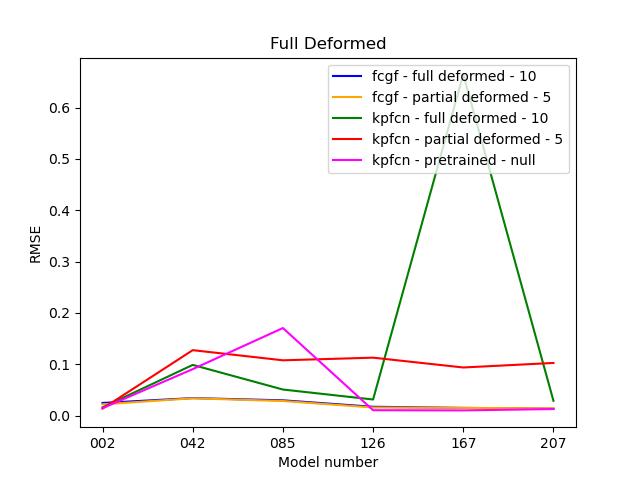
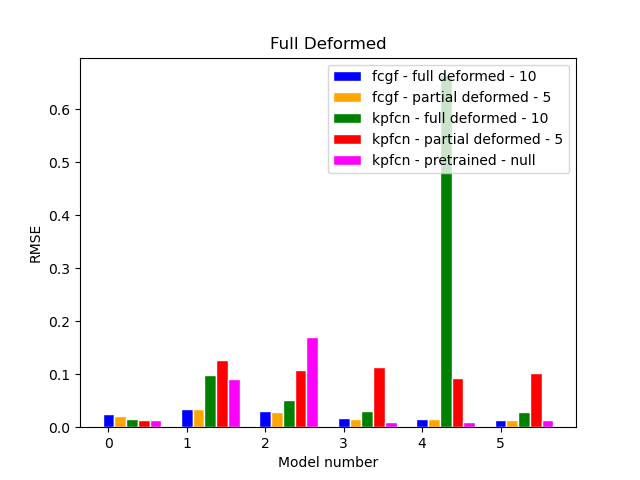
decreasing the confidence threshold

diff --git a/Testing/all/aggregate_data_all_weights_per_datatype.py b/Testing/all/aggregate_data_all_weights_per_datatype.py
@@ -2,26 +2,51 @@
 import re
 import matplotlib.pyplot as plt
 from os import path
+import numpy as np
+import copy
 
 data_types = ['full_deformed', 'partial_deformed', 'full_non_deformed', 'partial_non_deformed']
+model_numbers = ['002', '042', '085', '126', '167', '207']
+
+barWidth = 0.15
+barWidthPlot = 0.15
+br1 = np.array([0, 1, 2, 3, 4, 5])
+br2 = np.array([x + barWidth for x in br1])
+br3 = np.array([x + barWidth for x in br2])
+br4 = np.array([x + barWidth for x in br3])
+br5 = np.array([x + barWidth for x in br4])
 
 weights = {
     'fcgf' : {
-        'full_deformed' : 10, 
-        'partial_deformed' : 5
+        'full_deformed' : {
+            'epoch' : 10,
+            'bar' :  br1
+        },
+        'partial_deformed' : {
+            'epoch' : 5, 
+            'bar' : br2
+        }
     }, 
     'kpfcn' : {
-        'full_deformed' : 10, 
-        'partial_deformed' : 5,
-        'pretrained' : 'null'
+        'full_deformed' : {
+            'epoch' : 10,
+            'bar' : br3
+        }, 
+        'partial_deformed' : {
+            'epoch' : 5,
+            'bar' : br4
+        },
+        'pretrained' : {
+            'epoch' : 'null',
+            'bar' : br5
+        }
     }
 }
 
-# knn_matching = 'False'
-knn_matching = 'True'
+knn_matching = 'False'
+# knn_matching = 'True'
 
 number = 0
-model_numbers = ['002', '042', '085', '126', '167', '207']
 adm = 2.0
 with_custom = False
 # with_custom = True
@@ -39,13 +64,14 @@ def get_data(data_type, feature_extractor, training_data_type, custom = False):
     else:
         deformed = False
 
-    epoch = str(weights[feature_extractor][training_data_type])
+    epoch = str(weights[feature_extractor][training_data_type]['epoch'])
     if custom is False:
         file_path = 'Testing/all/test_astrivis_' + data_type + '_pre_' + preprocessing_normal + '_' + feature_extractor + '_td_' + training_data_type + '_e_' + epoch + '_knn_' + knn_matching + '.txt'
     else:
         file_path = 'Testing/all/test_astrivis_' + data_type + '_pre_' + preprocessing_custom + '_' + feature_extractor + '_td_' + training_data_type + '_e_' + epoch + '_custom_adm_' + str(adm) + '_knn_' + knn_matching + '.txt'
 
     if not path.exists(file_path):
+        print('Does not exist, file_path : ', file_path)
         return 'Does not exist'
     
     file = open(file_path, 'r')
@@ -90,18 +116,26 @@ for data_type in data_types:
     number += 1
     plt.clf()
     f = plt.figure(number)
+    # fig, ax = plt.subplots()
+
     legend = []
 
+    print('\n')
+    print('data_type : ', data_type)
     if with_custom is False:
         color_idx = 0
         for feature_extractor in weights:
             for training_data_type in weights[feature_extractor]:
 
-                epoch = str(weights[feature_extractor][training_data_type])
+                epoch = str(weights[feature_extractor][training_data_type]['epoch'])
+                bar = weights[feature_extractor][training_data_type]['bar']
                 training_data_type_mod = training_data_type.replace('_', ' ')
                 weights_legend = feature_extractor + ' - ' + training_data_type_mod + ' - ' + epoch 
                 legend.append(weights_legend)
                 data = get_data(data_type, feature_extractor, training_data_type)
+
+                print('feature_extractor : ', feature_extractor)
+                print('training_data_type : ', training_data_type)
 
                 if data == 'Does not exist':
                     break
@@ -110,7 +144,8 @@ for data_type in data_types:
                 for model_number in data:
                     rmse.append(float(data[model_number]['RMSE']))
                 
-                plt.plot(model_numbers, rmse, color = colors[color_idx], label=weights_legend)
+                rmse = np.array(rmse)
+                plt.bar(bar, rmse, color = colors[color_idx], width = barWidthPlot, edgecolor='white', label = weights_legend)              
                 color_idx += 1
     else:
         color_idx = 0
@@ -143,7 +178,8 @@ for data_type in data_types:
 
     plt.xlabel("Model number")
     plt.ylabel("RMSE")
-    plt.legend(loc='upper right') # legend
+    plt.xticks([r + barWidth for r in range(len(model_numbers))], model_numbers)
+    plt.legend(loc='upper right')
     title = data_type.replace('_', ' ')
     title = title.title()
     plt.title(title, wrap=True)

diff --git a/Testing/current_deformation/aggregate_data_all_weights_per_datatype.py b/Testing/current_deformation/aggregate_data_all_weights_per_datatype.py
@@ -9,6 +9,14 @@ knn_matching = 'True'
 
 data_types = ['full_deformed', 'partial_deformed', 'full_non_deformed', 'partial_non_deformed']
 
+barWidth = 0.15
+barWidthPlot = 0.15
+br1 = np.array([0, 1, 2, 3, 4, 5])
+br2 = np.array([x + barWidth for x in br1])
+br3 = np.array([x + barWidth for x in br2])
+br4 = np.array([x + barWidth for x in br3])
+br5 = np.array([x + barWidth for x in br4])
+
 if knn_matching == 'False':
     confidence_thresholds = {
         'full_deformed' : {
@@ -77,13 +85,28 @@ else:
 
 weights = {
     'fcgf' : {
-        'full_deformed' : 10, 
-        'partial_deformed' : 5
+        'full_deformed' : {
+            'epoch' : 10,
+            'bar' :  br1
+        },
+        'partial_deformed' : {
+            'epoch' : 5, 
+            'bar' : br2
+        }
     }, 
     'kpfcn' : {
-        'full_deformed' : 10, 
-        'partial_deformed' : 5,
-        'pretrained' : 'null'
+        'full_deformed' : {
+            'epoch' : 10,
+            'bar' : br3
+        }, 
+        'partial_deformed' : {
+            'epoch' : 5,
+            'bar' : br4
+        },
+        'pretrained' : {
+            'epoch' : 'null',
+            'bar' : br5
+        }
     }
 }
 
@@ -115,13 +138,14 @@ def get_data(data_type, feature_extractor, training_data_type, custom = False):
     else:
         conf_text = ''
 
-    epoch = str(weights[feature_extractor][training_data_type])
+    epoch = str(weights[feature_extractor][training_data_type]['epoch'])
     if custom is False:
         file_path = "Testing/current_deformation/test_astrivis_" + data_type + "_current_deformation_pre_" + preprocessing_normal + "_" + feature_extractor + "_td_" + training_data_type + "_e_" + epoch + "_knn_" + knn_matching + conf_text + ".txt"
     else:
         file_path = "Testing/current_deformation/test_astrivis_" + data_type + "_current_deformation_pre_" + preprocessing_normal + "_" + feature_extractor + "_td_" + training_data_type + "_e_" + epoch + "_custom_adm_" + str(adm) + "_knn_" + knn_matching + conf_text + ".txt"
     
     if not path.exists(file_path):
+        print('Does not exist, file_path : ', file_path)
         return 'Does not exist'
     
     file = open(file_path, 'r')
@@ -175,7 +199,9 @@ for data_type in data_types:
         for feature_extractor in weights:
             for training_data_type in weights[feature_extractor]:
                 
-                epoch = str(weights[feature_extractor][training_data_type])
+                epoch = str(weights[feature_extractor][training_data_type]['epoch'])
+                bar = weights[feature_extractor][training_data_type]['bar']
+
                 training_data_type_mod = training_data_type.replace('_', ' ')
                 weights_legend = feature_extractor + ' - ' + training_data_type_mod + ' - ' + epoch 
                 legend.append(weights_legend)
@@ -193,9 +219,12 @@ for data_type in data_types:
 
                 print('feature_extractor : ', feature_extractor)
                 print('training_data_type : ', training_data_type)
-                print('rmse : ', rmse)
-                if len(rmse) == 6:
-                    plt.plot(model_numbers, rmse, color = colors[color_idx], label=weights_legend)
+
+                if np.isnan(np.sum(rmse)):
+                    print('rmse with NaN: ', rmse)
+                # plt.plot(model_numbers, rmse, color = colors[color_idx], label=weights_legend)
+                plt.bar(bar, rmse, color = colors[color_idx], width = barWidthPlot, edgecolor='white', label = weights_legend)              
+                
                 color_idx += 1
     else:
         color_idx = 0
